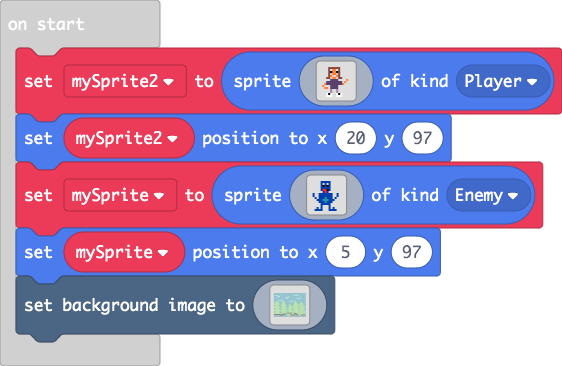
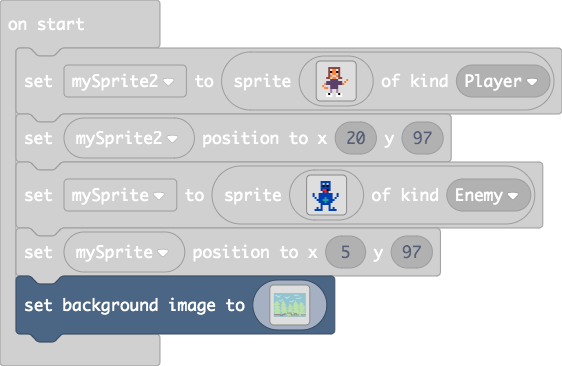
Update main.blocks, main.ts

diff --git a/main.ts b/main.ts
@@ -132,16 +132,16 @@ scene.setBackgroundImage(img`
 6 7 7 7 7 7 7 7 6 7 7 7 7 7 7 7 7 7 7 7 7 7 7 7 7 7 7 7 7 7 6 6 6 6 6 7 7 7 7 7 7 7 7 6 7 7 7 7 7 7 7 7 7 7 7 7 7 7 6 6 6 6 6 6 6 6 6 6 6 6 6 7 7 7 7 7 7 7 7 7 7 7 7 7 7 7 7 7 6 6 7 7 7 7 7 7 7 7 7 7 7 7 7 7 7 7 7 7 7 7 7 7 7 7 7 7 7 7 7 7 7 7 7 7 7 7 6 6 6 6 6 7 7 7 7 7 7 7 7 e 7 7 7 7 7 7 7 6 7 7 7 7 7 7 7 7 7 6 6 6 
 6 6 6 6 6 6 6 6 6 7 7 7 7 7 7 7 7 7 7 7 7 7 7 7 6 6 6 6 6 6 6 6 6 6 6 7 7 7 7 7 7 6 6 7 7 7 7 7 7 7 7 7 7 7 7 7 7 7 7 6 6 6 6 6 6 6 6 6 7 7 7 7 7 7 7 7 7 7 7 7 7 7 7 7 7 7 7 7 7 6 6 6 6 7 7 7 7 7 7 7 7 7 7 7 7 7 7 7 7 7 7 7 7 7 7 7 7 7 7 7 7 7 7 7 7 7 6 6 6 7 7 7 7 7 7 7 7 7 7 7 7 6 7 7 7 7 7 7 7 7 7 7 7 7 7 6 6 6 6 6 
 6 6 6 6 6 6 6 6 6 7 7 7 7 7 7 7 7 7 7 7 7 7 7 7 7 7 6 6 6 6 6 6 6 6 6 6 6 6 6 6 6 6 7 7 7 7 7 7 7 7 7 7 7 7 7 7 7 7 7 7 7 7 6 6 6 6 6 6 7 7 7 7 7 7 7 7 7 7 7 7 7 7 7 7 7 7 7 7 7 7 7 6 6 6 6 6 6 6 7 7 7 7 7 7 7 7 7 7 7 7 7 7 7 7 7 7 7 7 7 7 6 7 7 7 7 7 7 7 7 7 7 7 7 7 7 7 7 7 7 7 7 7 6 7 7 7 7 7 7 7 7 7 7 6 6 6 6 6 6 6 
-6 6 6 6 6 6 6 6 7 7 7 7 7 7 7 7 7 7 7 7 7 7 7 7 7 7 7 6 6 6 6 6 6 6 6 6 6 6 6 6 6 7 7 7 7 7 7 7 7 7 7 7 7 7 7 7 7 7 7 7 7 7 6 6 6 6 6 6 7 7 7 7 7 7 7 7 7 7 7 7 7 e e 7 7 7 7 7 7 7 7 7 7 7 7 7 6 6 6 6 6 6 6 6 7 7 7 7 7 7 7 7 7 7 7 7 7 7 7 6 6 7 7 7 7 7 7 7 7 7 7 7 7 7 7 7 7 7 7 7 7 7 7 7 6 7 7 7 7 7 6 7 7 7 7 7 7 6 6 6 
-6 6 6 6 6 6 6 7 7 7 7 7 7 7 7 7 7 7 7 7 7 7 7 7 7 7 7 7 7 6 6 6 6 6 6 6 6 6 6 6 7 7 7 7 7 7 7 7 7 7 7 7 7 7 7 7 7 7 7 7 7 7 7 6 6 6 6 6 7 7 7 7 7 7 7 7 7 7 7 7 7 7 7 e 7 7 7 7 7 7 7 7 7 7 7 7 6 6 6 6 6 6 6 7 7 7 7 7 7 7 7 7 7 7 7 7 7 7 7 7 6 7 7 7 7 7 7 7 7 7 7 7 7 7 7 7 7 7 7 7 7 7 7 7 7 6 6 7 7 7 7 7 7 7 7 7 7 6 6 6 
-6 6 6 6 6 6 7 7 7 7 7 7 7 7 7 7 7 7 7 7 7 7 7 7 7 7 7 7 7 7 6 6 6 6 6 6 6 6 6 6 7 7 7 7 7 7 7 7 7 7 7 7 7 7 7 7 7 7 7 7 7 7 7 7 6 6 6 6 7 7 7 7 7 7 7 7 7 7 7 7 7 7 7 7 e 7 7 7 7 7 7 7 7 7 7 7 6 6 6 6 6 6 7 7 7 7 7 7 7 7 7 7 7 7 7 7 7 7 7 7 7 6 6 6 6 6 7 7 7 7 7 7 7 7 7 7 7 7 7 7 7 7 7 7 7 7 7 7 7 7 7 7 7 7 7 7 7 6 6 6 
-6 6 6 6 6 7 7 7 7 7 7 7 7 7 7 7 7 7 7 7 7 7 7 7 7 7 7 7 7 7 7 6 6 6 6 6 6 6 6 6 7 7 7 7 7 7 7 7 7 7 7 7 7 7 7 7 7 7 7 7 7 7 7 7 7 6 6 f f f f f f f f f f f f f f f f f f f f f f 7 7 6 6 6 6 6 6 6 6 6 6 7 7 7 7 7 7 7 7 7 7 7 7 7 7 7 7 7 7 7 7 7 6 7 7 7 7 7 7 7 7 7 7 7 7 7 7 7 7 7 7 6 7 7 7 7 7 7 7 7 7 7 7 6 6 6 6 6 6 6 
+6 6 6 6 6 6 6 6 7 7 7 7 7 7 7 7 7 7 7 7 7 7 7 7 7 7 7 6 6 6 6 6 6 6 6 6 6 6 6 6 6 7 7 7 7 7 7 7 7 7 7 7 7 7 7 7 7 7 7 7 7 5 5 5 6 6 6 6 7 7 7 7 7 7 7 7 7 7 7 7 7 e e 7 7 7 7 7 7 7 7 7 7 7 7 7 6 6 6 6 6 6 6 6 7 7 7 7 7 7 7 7 7 7 7 7 7 7 7 6 6 7 7 7 7 7 7 7 7 7 7 7 7 7 7 7 7 7 7 7 7 7 7 7 6 7 7 7 7 7 6 7 7 7 7 7 7 6 6 6 
+6 6 6 6 6 6 6 7 7 7 7 7 7 7 7 7 7 7 7 7 7 7 7 7 7 7 7 7 7 6 6 6 6 6 6 6 6 6 6 6 7 7 7 7 7 7 7 7 7 7 7 7 7 7 7 7 7 7 7 7 7 5 8 5 6 6 6 6 7 7 7 7 7 7 7 7 7 7 7 7 7 7 7 e 7 7 7 7 7 7 7 7 7 7 7 7 6 6 6 6 6 5 5 7 7 7 7 7 7 7 7 7 7 7 7 7 7 7 7 7 6 7 7 7 7 7 7 7 7 7 7 7 7 7 7 7 7 7 7 7 7 7 7 7 7 6 6 7 7 7 7 7 7 7 7 7 7 6 6 6 
+6 6 6 6 6 6 7 7 7 7 7 7 7 7 7 7 7 7 7 7 7 7 7 7 7 7 7 7 7 7 6 6 6 6 6 6 6 6 6 6 7 7 7 7 7 7 7 7 7 7 7 7 7 7 7 7 7 7 7 7 7 5 5 5 6 6 6 6 7 7 7 7 7 7 7 7 7 7 7 7 7 7 7 7 e 7 7 7 7 7 7 7 7 7 7 7 6 6 6 6 6 5 8 7 7 7 7 7 7 7 7 7 7 7 7 7 7 7 7 7 7 6 6 6 6 6 7 7 7 7 7 7 7 7 7 7 7 7 7 7 7 7 7 7 7 7 7 7 7 7 7 7 7 7 7 7 7 6 6 6 
+6 6 6 6 6 7 7 7 7 7 7 7 7 7 7 7 7 7 7 7 7 7 7 7 7 7 7 7 7 7 7 6 6 6 6 6 6 6 6 6 7 7 7 7 7 7 7 7 7 7 7 7 7 7 7 7 7 7 7 7 7 7 7 7 7 6 6 f f f f f f f f f f f f f f f f f f f f f f 7 7 6 6 6 6 6 6 6 6 6 6 5 5 7 7 7 7 7 7 7 7 7 7 7 7 7 7 7 7 7 7 7 6 7 7 7 7 7 7 7 7 7 7 7 7 7 7 7 7 7 7 6 7 7 7 7 7 7 7 7 7 7 7 6 6 6 6 6 6 6 
 6 6 6 7 7 7 7 7 7 7 7 7 7 7 7 7 7 7 7 7 7 7 7 7 7 7 7 7 7 7 7 6 6 6 6 6 6 6 6 7 7 7 7 7 7 7 7 7 7 7 7 7 7 f f f f f 7 7 7 7 7 7 7 7 7 f f f f f f f f f f f f f f f f f f f f f f 7 7 7 7 6 6 6 6 6 6 6 7 7 7 7 7 7 7 7 7 7 7 7 7 7 7 7 7 7 7 7 7 7 7 7 7 7 7 7 7 7 7 7 7 7 7 7 7 e 7 7 7 7 6 7 7 7 7 7 7 7 7 7 6 6 6 6 6 6 6 6 
 6 6 7 7 7 7 7 7 7 7 7 7 7 7 7 7 7 7 7 7 7 7 7 7 7 7 7 7 7 7 7 7 6 6 6 6 6 6 7 7 7 7 7 7 7 7 7 7 7 7 7 7 7 f f f f f 7 7 7 7 7 7 7 7 7 f f f f f f f f f f f f f f f f f f f f f f 7 7 7 7 7 7 6 6 6 6 7 7 f f f f f f f f f f f f f f f 7 7 7 7 7 7 7 7 7 7 7 7 6 6 6 7 7 7 7 7 7 7 7 7 7 7 7 6 6 7 7 7 7 7 7 7 7 7 6 6 6 6 6 6 
 6 7 7 7 7 7 7 7 7 7 7 7 7 7 7 7 7 7 7 7 7 7 7 7 7 7 7 7 7 7 7 7 6 6 6 6 6 6 7 7 7 7 7 7 7 e e e e e 4 4 6 f f f f f 7 7 7 7 7 7 7 7 7 f f f f f f f f f f f f f f f f f f f f f f 7 7 7 7 7 7 7 7 7 7 7 7 f f f f f f f f f f f f f f f 7 7 7 7 7 7 7 7 6 6 6 6 6 6 7 7 7 7 7 7 7 7 7 7 7 7 7 7 7 6 6 7 7 7 7 7 7 7 7 7 7 7 7 6 
-7 7 7 7 7 7 7 7 7 7 7 7 7 7 7 7 7 7 7 7 7 7 7 7 7 7 7 7 7 7 7 7 7 6 6 6 6 6 7 7 7 7 7 6 6 e e 4 e e 4 4 6 f f f f f 6 6 6 6 6 6 6 6 6 f f f f f f f f f f f f f f f f f f f f f f 7 6 7 7 7 7 7 7 7 7 7 7 f f f f f f f f f f f f f f f 7 7 7 7 7 7 7 7 7 6 6 6 7 7 7 7 7 7 7 7 7 7 7 7 7 7 7 7 7 7 7 7 7 7 7 7 7 7 7 7 7 7 7 6 
-7 7 7 7 7 7 7 7 7 7 7 7 7 7 7 7 7 7 7 7 7 7 7 7 7 7 7 7 7 7 7 7 7 6 6 6 6 6 7 7 7 6 6 6 6 e e 4 4 e 4 e 6 f f f f f 6 6 6 6 6 6 6 6 6 6 6 6 6 6 7 7 7 7 7 7 7 7 7 7 7 7 f f f f f 7 7 7 7 7 7 7 7 7 7 7 7 f f f f f f f f f f f f f f f 7 7 7 7 7 7 7 7 7 7 7 7 7 7 7 7 7 7 7 7 7 7 7 7 e 7 7 7 7 7 7 7 7 7 7 7 7 7 7 7 7 7 7 6 
-7 7 7 7 7 7 7 7 7 7 7 7 7 7 7 7 7 7 7 7 7 7 7 7 7 7 7 7 7 7 7 7 7 6 6 6 6 6 6 6 6 6 6 6 6 e e e 4 4 4 e e f f f f f 6 6 6 6 6 6 6 6 6 6 6 7 7 7 7 7 7 7 7 7 7 7 7 7 7 7 f f f f f 7 7 7 7 7 7 7 7 6 7 7 7 f f f f f f f f f f f f f f f 7 7 7 7 7 7 7 7 7 7 7 7 7 7 7 7 6 7 7 7 7 7 7 7 7 7 6 7 7 7 7 7 7 7 7 7 7 7 7 6 6 6 6 6 
+7 7 7 7 7 7 7 7 7 7 7 7 7 7 7 7 7 7 7 7 7 7 7 7 7 7 7 7 7 7 7 7 7 6 6 6 6 6 7 7 7 7 5 6 6 e e 4 e e 4 4 6 f f f f f 6 6 6 6 6 6 6 6 6 f f f f f f f f f f f f f f f f f f f f f f 7 6 7 7 7 7 7 7 7 7 7 7 f f f f f f f f f f f f f f f 7 7 7 7 7 7 7 7 7 6 6 6 7 7 7 7 7 7 7 7 7 7 7 7 7 7 7 7 7 7 7 7 7 7 7 7 7 7 7 7 7 7 7 6 
+7 7 7 7 7 7 7 7 7 7 7 7 7 7 7 7 7 7 7 7 7 7 7 7 7 7 7 7 7 7 7 7 7 6 6 6 6 6 7 7 7 5 5 6 6 e e 4 4 e 4 e 6 f f f f f 6 6 6 6 6 6 6 6 6 6 6 6 6 6 7 7 7 7 7 7 7 7 7 7 7 7 f f f f f 7 7 7 7 7 7 7 7 7 7 7 7 f f f f f f f f f f f f f f f 7 7 7 7 7 7 7 7 7 7 7 7 7 7 7 7 7 7 7 7 5 5 5 7 e 7 7 7 7 7 7 7 7 7 7 7 7 7 7 7 7 7 7 6 
+7 7 7 7 7 7 7 7 7 7 7 7 7 7 7 7 7 7 7 7 7 7 7 7 7 7 7 7 7 7 7 7 7 6 6 6 6 6 6 6 6 5 8 6 6 e e e 4 4 4 e e f f f f f 6 6 6 6 6 6 6 6 6 6 6 7 7 7 7 7 7 7 7 7 7 7 7 7 7 7 f f f f f 7 7 7 7 7 7 7 7 6 7 7 7 f f f f f f f f f f f f f f f 7 7 7 7 7 7 7 7 7 7 7 7 7 7 7 7 6 7 7 7 5 8 5 7 7 7 6 7 7 7 7 7 7 7 7 7 7 7 7 6 6 6 6 6 
 f f f f f f f f f f f f f f f f f f f f f f f f f f f f f f f f f f f 6 6 6 6 6 f f f f f f f f f f f f f f f f f f 6 6 6 6 6 6 6 7 7 7 7 7 7 7 7 6 7 7 7 7 7 7 7 7 7 7 f f f f f 7 7 7 7 7 7 7 7 6 7 7 7 f f f f f 7 7 7 7 7 f f f f f 7 7 7 7 7 7 7 7 7 7 7 7 7 7 6 6 6 e 7 7 7 7 7 7 7 7 7 7 7 7 7 7 7 7 7 7 7 6 6 6 6 6 6 6 
 f f f f f f f f f f f f f f f f f f f f f f f f f f f f f f f f f f f 6 6 6 6 6 f f f f f f f f f f f f f f f f f f 6 6 6 6 6 6 6 7 7 7 7 7 7 7 7 7 7 7 7 7 7 7 7 7 7 7 f f f f f 6 6 7 7 7 7 7 7 6 7 7 7 f f f f f 7 7 7 7 7 f f f f f 7 7 7 7 7 7 7 7 7 7 6 6 6 6 6 6 6 7 7 7 7 7 7 7 7 7 7 7 7 7 7 7 7 7 7 7 6 6 6 6 6 6 6 6 
 f f f f f f f f f f f f f f f f f f f f f f f f f f f f f f f f f f f 6 6 6 6 6 f f f f f f f f f f f f f f f f f f 6 6 6 6 6 6 6 7 7 7 7 7 7 7 7 7 7 7 7 7 6 7 7 7 7 e f f f f f 6 6 6 6 6 6 6 6 6 6 6 6 f f f f f 7 e 7 7 7 f f f f f f f f f f f f f f 6 6 6 6 6 6 6 7 7 7 f f f f f f f f f f f f f f f f f f f f f f f f f 
